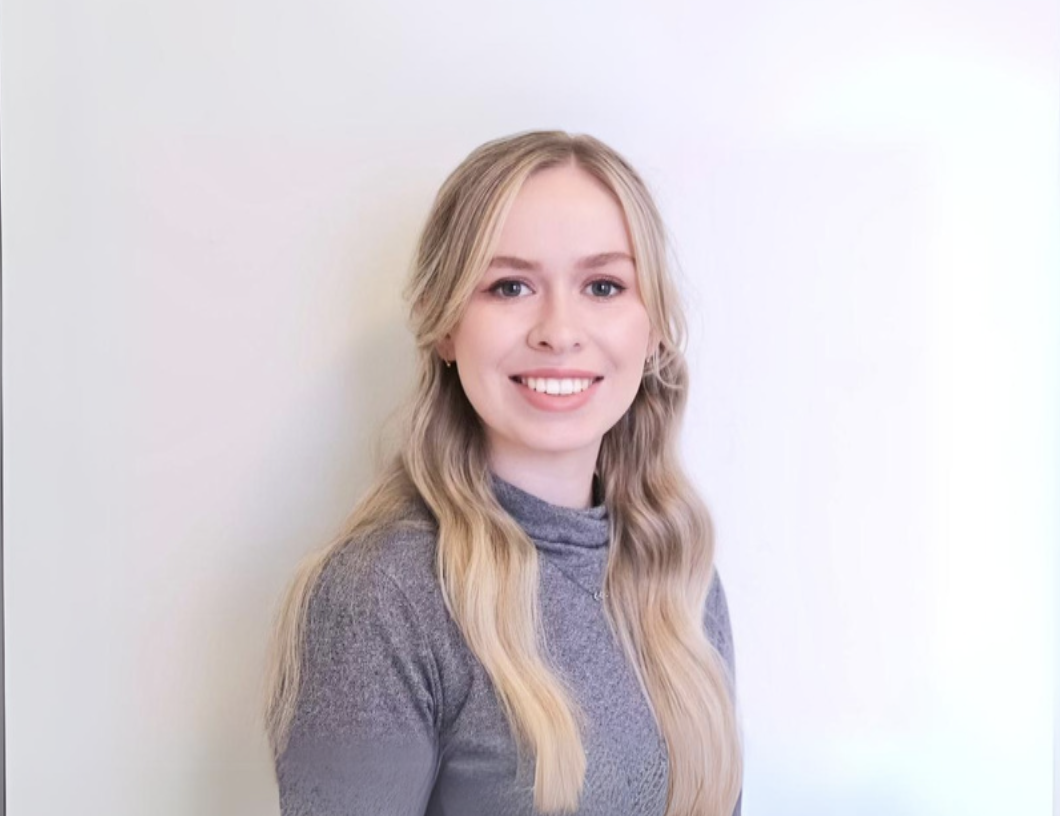
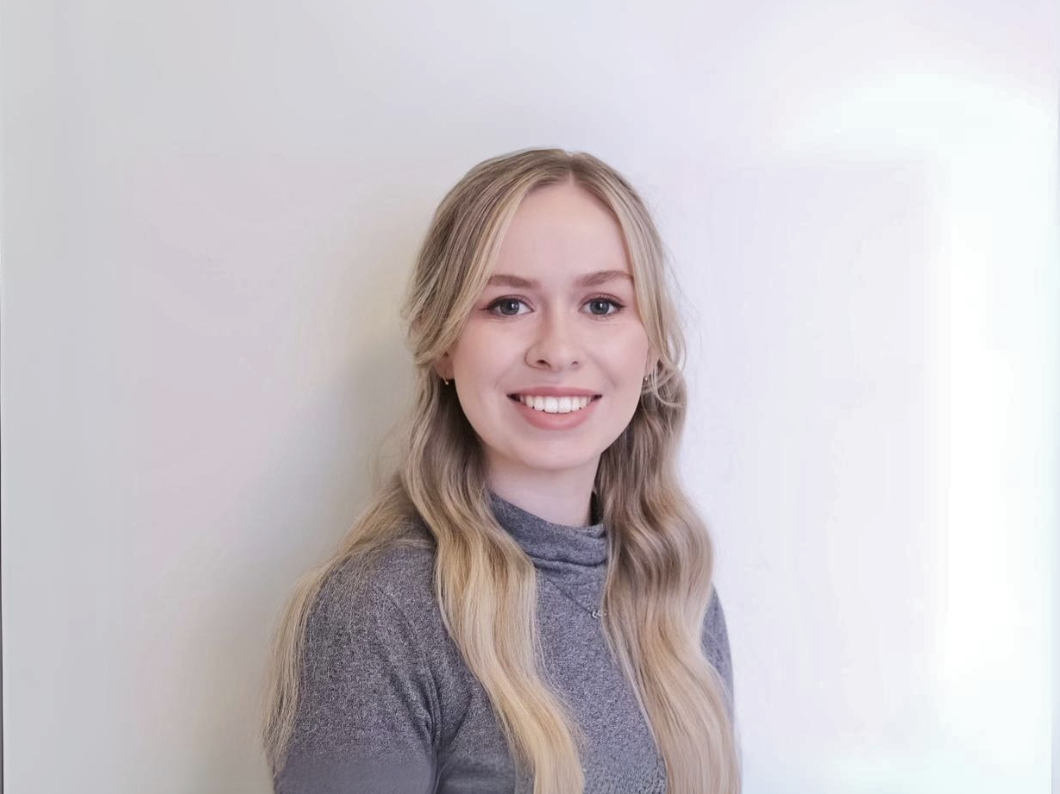
Added the about me page content

Changed region(s): [[0.2179, 0.1511, 0.716, 1.0], [0.0, 0.5441, 0.0311, 1.0], [0.0, 0.4836, 0.0311, 0.5139]]

diff --git a/anaisdawes/src/Pages/About.js b/anaisdawes/src/Pages/About.js
@@ -1,13 +1,159 @@
-import React from 'react';
+import React, { useState, useEffect } from 'react';
 import Navbar from '../Components/Navbar.js';
-import '../CSS/Projects.css';
+import '../CSS/About.css';
 import Footer from '../Components/Footer.js';
 
 function About() {
+    const [isSmallWindow, setIsSmallWindow] = useState(false);
+
+    useEffect(() => {
+        function isWindowSize(size) {
+            return window.innerWidth <= size;
+        }
+
+        function handleResize() {
+            setIsSmallWindow(isWindowSize(718));
+        }
+
+        window.addEventListener('resize', handleResize);
+
+        handleResize();
+
+        return () => {
+            window.removeEventListener('resize', handleResize);
+        };
+    }, []);
 
     return (
         <div className='app'>
             <Navbar />
+            <div className='sectionContainer'>
+                <div className={`pageContent ${isSmallWindow ? 'center' : ''}`}>
+                    <div className='projectContent'>
+                        <div className={`sectionInnerContainer sectionContentContainer ${isSmallWindow ? 'vertical' : ''}`}>
+                            <div className='introductionTextContainer'>
+                                <h1 className='pageHeader'>Hi, I'm Anaïs!</h1>
+                                <h2 className='pageSubheader'>Software Engineer</h2>
+                                <p>
+                                    I am a dedicated and skilled Front-End/Full Stack Software Developer,
+                                    passionate about creating elegant, responsive, and user-centric applications. <br />
+                                    <br />
+                                    My expertise lies in crafting intuitive and visually appealing front-end code, ensuring a seamless user experience. I
+                                    thrive on solving complex problems and the satisfaction of seeing my work come to life through effective and efficient code!
+                                </p>
+                            </div>
+                            <div className={`introductionImageContainer ${isSmallWindow ? 'extraTopPadding' : ''}`}>
+                                <img className='introductionImage' src='/AnaisProfile.png' alt='Anais Dawes' />
+                            </div>
+                        </div>
+                    </div>
+                </div>
+            </div>
+            <div className='sectionContainer'>
+                <div className={`pageContent ${isSmallWindow ? 'center' : ''}`}>
+                    <div className='projectContent'>
+                        <div className='sectionContentContainer'>
+                            <div className={`resumeHeaderContainer ${isSmallWindow ? 'vertical' : ''}`}>
+                                <h1 className='resumeHeader'>Experience</h1>
+                                <button className='resumeButton'>Download Resume</button>
+                            </div>
+                            <div className='fullWidthHorizontalLine' />
+                            <div className='subsectionContainer'>
+                                <h3 className='resumeSubheader'>Professional Projects</h3>
+                                <div className='indent'>
+                                    <h4 className='resumeSubsubheader'>Blazzi - Lead Frontend Developer - 2024</h4>
+                                    <p className='resumeDescription'>
+                                        Led a team of five developers in frontend UI/UX development for a React Native app targeted towards the
+                                        beauty industry. This project was undertaken as part of a year-long master's program.
+                                    </p>
+                                    <button className='resumeButton'>View Project</button>
+                                </div>
+                                <div className='indent'>
+                                    <h4 className='resumeSubsubheader'>Disney Studio LAB - Software Engineer - 2023</h4>
+                                    <p className='resumeDescription'>
+                                        Collaborated with a team of 10 students to develop a prototype system enabling remote executive visits to movie sets. Led
+                                        the networking and coding components of the project, contributing to it’s successful implementation. Nominated by my team
+                                        to be listed as an inventor on a patent application resulting from the project’s innovation.
+                                    </p>
+                                    <button className='resumeButton'>View Project</button>
+                                </div>
+                            </div>
+                            <div className='subsectionContainer'>
+                                <h3 className='resumeSubheader'>Professional Experience</h3>
+                                <div className='indent'>
+                                    <ul className='list resumeDescription'>
+                                        <li>headversity - Software Developer Intern</li>
+                                        <li>BYU Computer Science - UX Lab Supervisor</li>
+                                        <li>BYU IT - Database TA</li>
+                                        <li>BYU Cybersecurity Research Lab - Website manager</li>
+                                    </ul>
+                                    <button className='resumeButton'>See more in my resume</button>
+                                </div>
+                            </div>
+                        </div>
+                    </div>
+                </div>
+            </div>
+            <div className='sectionContainer'>
+                <div className={`pageContent ${isSmallWindow ? 'center' : ''}`}>
+                    <div className='projectContent'>
+                        <div className='sectionContentContainer'>
+                            <h1 className='resumeHeader'>Skills and Certifications</h1>
+                            <div className='fullWidthHorizontalLine' />
+                            <div className='subsectionContainer'>
+                                <h3 className='resumeSubheader'>Skills</h3>
+                                <div className='indent'>
+                                    <p>
+                                        React.js  •  Javascript  •  HTML  •  CSS  •  Vue.js  •  git  •  React Native  •  Swift  •
+                                        RESTful APIs  •  MySQL  •  SCRUM  •  UX Principles  •  Node.js  •  Jira  •  PostgreSQL  •
+                                        Java  •  Python  •  Docker  •  AWS Technologies  •  CI/CD Pipeline
+                                    </p>
+                                </div>
+                            </div>
+                            <div className='subsectionContainer'>
+                                <h3 className='resumeSubheader'>Certifications</h3>
+                                <div className='indent'>
+                                    <ul className='list'>
+                                        <li>Professional Scrum Master - scrum.org</li>
+                                        <li>Telepresence Patent with Disney Marvel</li>
+                                        <li>Phi Eta Sigma Honors Society (2018)</li>
+                                    </ul>
+                                </div>
+                            </div>
+                        </div>
+                    </div>
+                </div>
+            </div>
+            <div className='sectionContainer'>
+                <div className={`pageContent ${isSmallWindow ? 'center' : ''}`}>
+                    <div className='projectContent'>
+                        <div className='sectionContentContainer'>
+                            <h1 className='resumeHeader'>Education</h1>
+                            <div className='fullWidthHorizontalLine' />
+                            <div className='subsectionContainer'>
+                                <h3 className='resumeSubheader'>Masters of Information Systems Management - Brigham Young University - 2024</h3>
+                                <div className='indent'>
+                                    <p>
+                                        In this program nicknamed the MISM, I spent a year doing an accelerated masters degree that emphasized in software
+                                        development. I love this program as it gave me so many opportunities to work in professionally simulated  teams and
+                                        put my skills to the test through mentored projects.
+                                    </p>
+                                </div>
+                            </div>
+                            <div className='subsectionContainer'>
+                                <h3 className='resumeSubheader'>Bachelors of Science in Information Technology - Brigham Young University - 2023</h3>
+                                <div className='indent'>
+                                    <p>
+                                        This program gave me the technical skills that I need to be where I am today. The most important thing I learned through
+                                        these years was to learn how to teach myself new technologies and skills and to be able to learn from my peers. This is one
+                                        of the most vital skills in tech and will serve me for years to come!
+                                    </p>
+                                </div>
+                            </div>
+                        </div>
+                    </div>
+                </div>
+            </div>
             <Footer />
         </div>
     );

diff --git a/anaisdawes/src/CSS/About.css b/anaisdawes/src/CSS/About.css
@@ -1,0 +1,101 @@
+.sectionContainer {
+    width: 100%;
+    box-shadow: 0px 2px 5px 2px #cacdce;
+}
+
+.sectionInnerContainer {
+    display: flex;
+    flex-direction: row;
+}
+
+.sectionContentContainer {
+    width: 70rem;
+    max-width: 90vw;
+    padding-left: 2rem;
+    padding-right: 2rem;
+}
+
+.introductionTextContainer {
+    display: flex;
+    flex-direction: column;
+    width: 100%;
+    margin-right: 2rem;
+}
+
+.introductionImageContainer {
+    height: calc(8rem + 8vw);
+    min-width: calc(15rem + 8vw);
+    min-height: 12rem;
+    max-width: 24.5rem;
+    border: 1px solid #0B0C21;
+    border-radius: 18px;
+    overflow: hidden;
+}
+
+.introductionImage {
+    height: 100%;
+    width: 100%;
+    object-fit: cover;
+}
+
+.resumeHeaderContainer {
+    display: flex;
+    flex-direction: row;
+    justify-content: space-between;
+    width: 100%;
+}
+
+.resumeHeader {
+    font-size: calc(1.5rem + 0.2vw);
+    font-weight: 400;
+    margin-bottom: 1.2rem;
+}
+
+.resumeButton {
+    padding: 0.5rem;
+    border-radius: 0.4rem;
+    font-weight: 500;
+    background-color: #ED8957;
+    text-align: center;
+    margin-bottom: 1.2rem;
+}
+
+.fullWidthHorizontalLine {
+    width: 100%;
+    height: 0.05rem;
+    background-color: #0B0C21;
+}
+
+.resumeSubheader {
+    font-size: calc(1rem + 0.2vw);
+    font-weight: 600;
+    margin-top: 1.2rem;
+    margin-bottom: 1.2rem;
+}
+
+.resumeSubsubheader {
+    font-size: 1.2rem;
+    font-weight: 500;
+    margin-bottom: 0.4rem;
+}
+
+.resumeDescription {
+    margin-bottom: 0.8rem;
+}
+
+.indent {
+    margin-left: 4rem;
+}
+
+.list {
+    margin-left: 1rem;
+}
+
+.vertical {
+    display: flex;
+    flex-direction: column;
+}
+
+.extraTopPadding {
+    margin-top: 1.8rem;
+}
